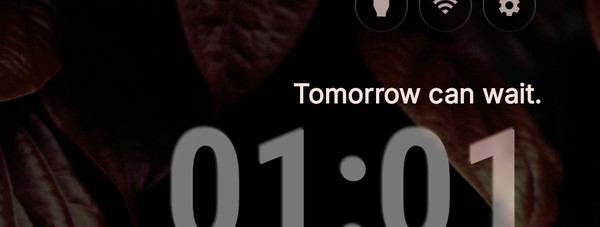
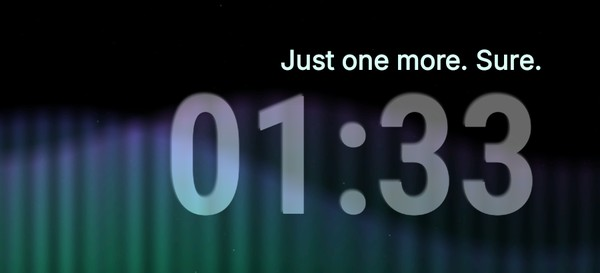
README: real-TV crops on different wallpapers

diff --git a/README.md b/README.md
@@ -12,11 +12,11 @@
 
 ◆ **A new line every time you come Home.** It follows the hour, and the weather if you turn it on.
 
-<p align="center"><img src="docs/greetings.jpg" width="900" alt="Three greetings: One more episode, Sam? / Chilly tonight, Sam. Stay cosy. / Remote's all yours."></p>
+<p align="center"><img src="docs/greetings.jpg" width="900" alt="Three greetings on a real TV: Just one more. Sure. / It's late. I won't tell. / Nice night out. Nicer in here."></p>
 
 ◆ **Frosted glass clock.** Your wallpaper shows through the digits, which stay readable on any picture.
 
-<p align="center"><img src="docs/clock.jpg" width="600" alt="The glass clock over a photo of leaves, on a real TV"></p>
+<p align="center"><img src="docs/clock.jpg" width="600" alt="The glass clock over the Aurora wallpaper, on a real TV"></p>
 
 ◆ **Continue watching.** Resume your shows in one press. The focused one grows, the rest step back.
 
@@ -33,8 +33,8 @@ wakes it. The included wallpapers are true black, so OLED pixels switch off. Or 
 
 ◆ **Light.** 64 MB against Google TV home's ~176 MB. No ads, no tracking, no account.
 
-<sub>Glass, greetings and wallpapers: Google TV emulator. Clock, Continue watching and menus: a real TCL Google TV,
-posters blurred on purpose.</sub>
+<sub>Greetings, clock, Continue watching and menus: a real TCL Google TV. Glass motion and the wallpaper grid: Google TV emulator.
+Posters blurred on purpose.</sub>
 
 ## ▸ Install in one command
 
